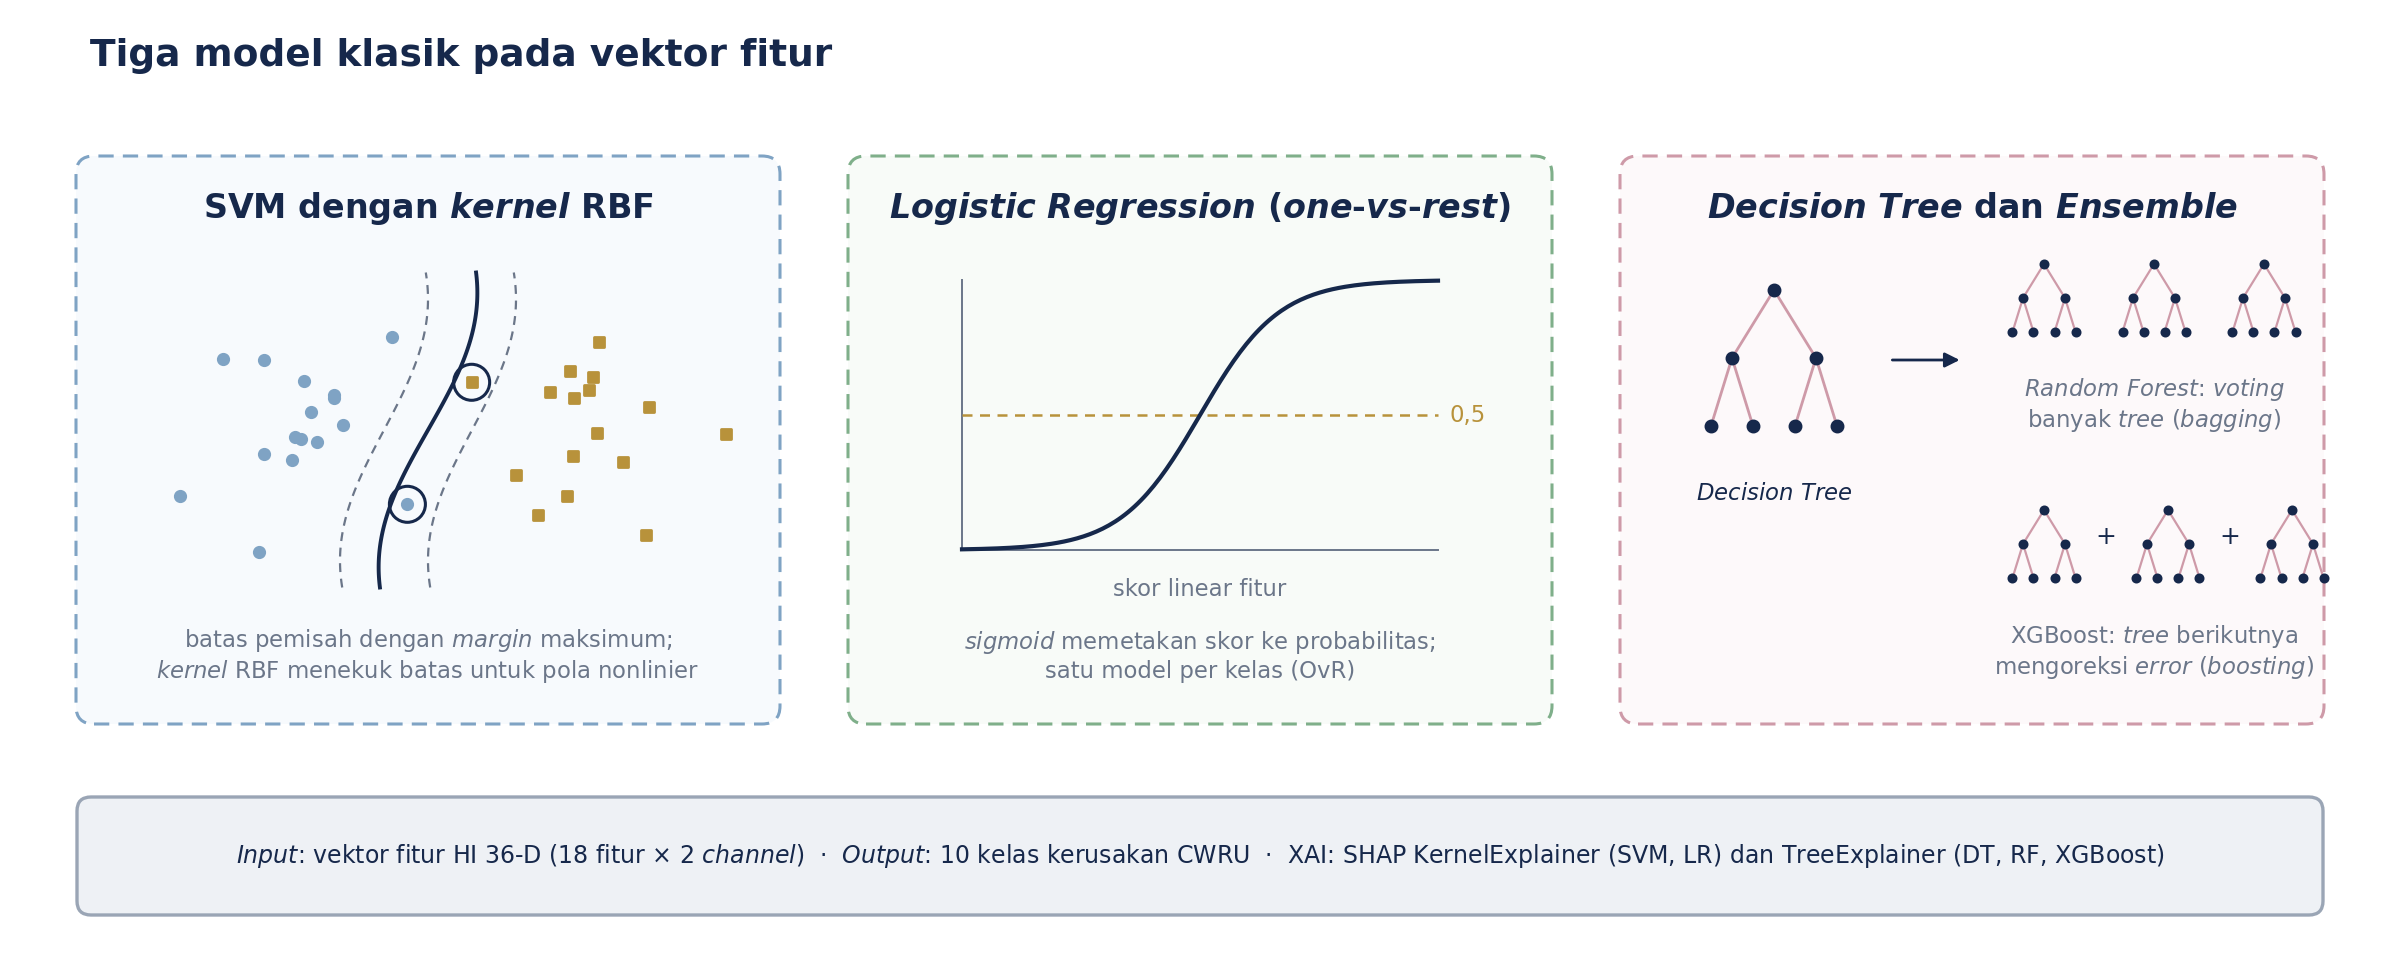
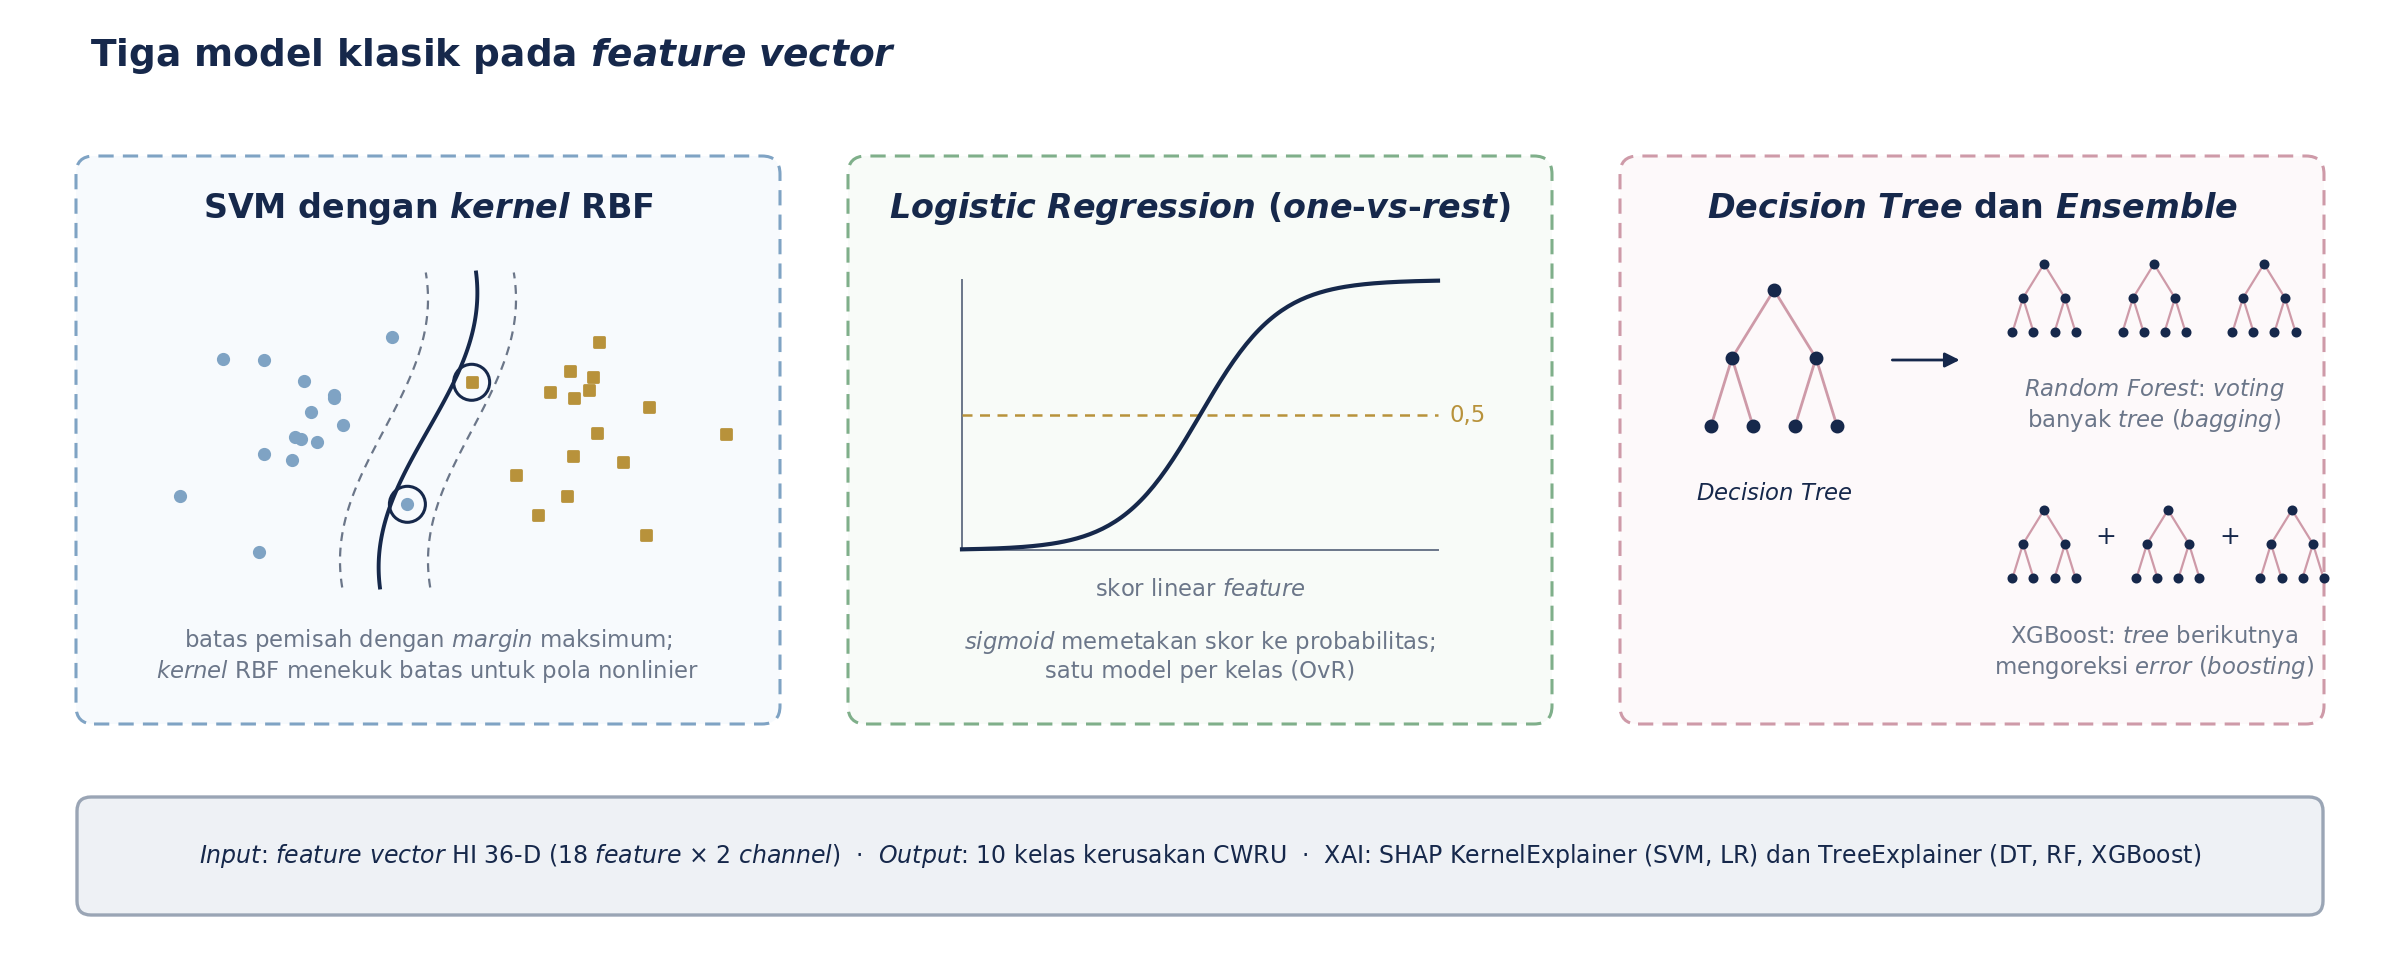
style(presentation): bearing parts, gap, and ML terms of art stay English
Three corrections from review of the built deck.

Bearing components are English like the bearing itself: outer ring, inner
ring, rolling element, ball, cage. The glossary card drops its "(bantalan)"
gloss and the severity ranking reads Ball > inner ring > outer ring.

A research gap is a gap, not a kesenjangan: slide 6 becomes "Empat Gap yang
Belum Terjawab" under a GAP LITERATUR eyebrow, its badges K1-K4 become
G1-G4, and the agenda, the RM bridge, and the Gambar II.11 caption follow.

Machine learning and deep learning terms of art stay English even where
KBBI lists a spelling-adapted form, window included: window, sliding
window, receptive field, feature, latent feature, feature vector, sample,
projection, convolution, normalization, reconstruction, Top-k selection,
attribution, attribution map, heatmap, layer, sequence modeling. Cognates
outside the jargon are untouched: akurasi, korelasi, frekuensi, amplitudo,
aktivasi, estimasi, agregasi, dimensi.

The calque guard now covers all of them, in the renderer and in the slide
copy. Lint clean, 131 tests green.

Claude-Session: https://claude.ai/code/session_01VPxUBMA37K3bjY1ZnjmBgu

diff --git a/presentation/tools/render_diagrams.py b/presentation/tools/render_diagrams.py
@@ -41,13 +41,13 @@ GOLD_FILL = "#E6D6A8"
 
 KIND = {
     "input":  {"fc": "#FBF0D3", "ec": "#C9B06B"},   # kuning  — input / embedding
-    "proj":   {"fc": "#E7E1F4", "ec": "#A79BCF"},   # ungu    — proyeksi / konvolusi / FC
-    "seq":    {"fc": "#D9EAF7", "ec": "#7FA3C4"},   # biru    — pemodelan sekuens
+    "proj":   {"fc": "#E7E1F4", "ec": "#A79BCF"},   # ungu    — projection / convolution / FC
+    "seq":    {"fc": "#D9EAF7", "ec": "#7FA3C4"},   # biru    — sequence modeling
     "mem":    {"fc": "#DFEEDF", "ec": "#7FAF8A"},   # hijau   — memory / state
-    "gate":   {"fc": "#F8E1E6", "ec": "#CE9AA8"},   # merah muda — gating / normalisasi
+    "gate":   {"fc": "#F8E1E6", "ec": "#CE9AA8"},   # merah muda — gating / normalization
     "out":    {"fc": "#CBE3D3", "ec": "#3E8E5B"},   # hijau tua — output / head
     "util":   {"fc": "#EEF1F5", "ec": "#9AA5B5"},   # abu     — pooling / utilitas
-    "active": {"fc": GOLD_FILL, "ec": GOLD},        # emas    — fitur aktif
+    "active": {"fc": GOLD_FILL, "ec": GOLD},        # emas    — active feature
 }
 
 FS_TITLE = 12.5   # panel / container titles
@@ -233,9 +233,9 @@ def mamba_xlstm_full():
 
     # ---- right column: the stack -----------------------------------------
     sx, bw = 10.35, 2.55
-    box(ax, sx, 1.28, bw, 0.56, "[[Input]] HI", kind="input", sub="jendela 32 rekaman")
+    box(ax, sx, 1.28, bw, 0.56, "[[Input]] HI", kind="input", sub="[[window]] 32 rekaman")
     arrow(ax, (sx, 1.58), (sx, 1.90))
-    box(ax, sx, 2.16, bw, 0.52, "Proyeksi linear\nke dimensi model", kind="proj", fs=8.5)
+    box(ax, sx, 2.16, bw, 0.52, "[[Linear projection]]\nke dimensi model", kind="proj", fs=8.5)
     arrow(ax, (sx, 2.44), (sx, 2.76))
     container(ax, sx - bw / 2 - 0.14, 2.78, bw + 0.28, 1.94, times="3×")
     box(ax, sx, 3.28, bw - 0.18, 0.62, "Blok Mamba", kind="seq", sub="[[Selective State-Space]]")
@@ -246,7 +246,7 @@ def mamba_xlstm_full():
     arrow(ax, (sx, 5.56), (sx, 5.88))
     ax.text(sx + 0.24, 5.72, r"$h \in \mathbb{R}^{128}$", ha="left", va="center",
             fontsize=8.5, color=MUTED)
-    box(ax, sx, 6.18, bw, 0.60, "MLP dua lapis", kind="out", sub="estimasi RUL", bold=True)
+    box(ax, sx, 6.18, bw, 0.60, "MLP dua [[layer]]", kind="out", sub="estimasi RUL", bold=True)
     ax.text(sx, 6.72, "Mamba-xLSTM-Net", ha="center", va="center",
             fontsize=FS_TITLE, color=INK, fontweight="bold")
 
@@ -262,7 +262,7 @@ def mamba_xlstm_full():
     gy = p1y + 0.62                                   # gate branch
     ax.plot([p1x + 0.28], [my], marker="o", ms=4, color=INK)
     arrow(ax, (p1x + 0.30, my), (p1x + 0.72, my))
-    box(ax, p1x + 1.22, my, 0.96, 0.5, "Proyeksi", kind="proj", fs=8.5)
+    box(ax, p1x + 1.22, my, 0.96, 0.5, "[[Projection]]", kind="proj", fs=8.5)
     arrow(ax, (p1x + 1.72, my), (p1x + 2.06, my))
     box(ax, p1x + 2.56, my, 0.96, 0.5, "Conv1D", kind="proj", fs=8.5)
     arrow(ax, (p1x + 3.06, my), (p1x + 3.38, my))
@@ -276,14 +276,14 @@ def mamba_xlstm_full():
     arrow(ax, (p1x + 5.32, my - 0.60), (p1x + 5.32, my - 0.38), lw=0.9)
     arrow(ax, (p1x + 6.10, my), (p1x + 6.50, my))
     gate_glyph(ax, p1x + 6.66, my, "×", kind="gate")
-    # gate branch: input -> proyeksi+SiLU -> multiplicative gate
+    # gate branch: input -> projection+SiLU -> multiplicative gate
     ax.plot([p1x + 0.28, p1x + 0.28], [my - 0.04, gy], color=INK, lw=1.0)
     arrow(ax, (p1x + 0.28, gy), (p1x + 1.30, gy))
-    box(ax, p1x + 2.14, gy, 1.66, 0.5, "Proyeksi + SiLU", kind="proj", fs=8.5)
+    box(ax, p1x + 2.14, gy, 1.66, 0.5, "[[Projection]] + SiLU", kind="proj", fs=8.5)
     ax.plot([p1x + 2.98, p1x + 6.66], [gy, gy], color=INK, lw=1.0)
     arrow(ax, (p1x + 6.66, gy), (p1x + 6.66, my - 0.16), shrink=1)
     arrow(ax, (p1x + 6.82, my), (p1x + 7.10, my))
-    box(ax, p1x + 7.56, my, 0.86, 0.5, "Proyeksi", kind="proj", fs=8.5)
+    box(ax, p1x + 7.56, my, 0.86, 0.5, "[[Projection]]", kind="proj", fs=8.5)
     ax.text(p1x + p1w / 2, p1y + 0.16, "[[gate]] multiplikatif memilih informasi yang diteruskan",
             ha="center", va="bottom", fontsize=FS_TINY, color=MUTED, style="italic")
 
@@ -298,7 +298,7 @@ def mamba_xlstm_full():
     cyc = p2y + 1.22
     ax.plot([p2x + 0.28], [cyc], marker="o", ms=4, color=INK)
     for lbl, dy in (("q", 0.85), ("k", 0.0), ("v", -0.85)):
-        box(ax, p2x + 1.30, cyc + dy, 0.86, 0.46, f"Proyeksi {lbl}", kind="proj", fs=8)
+        box(ax, p2x + 1.30, cyc + dy, 0.86, 0.46, f"[[Projection]] {lbl}", kind="proj", fs=8)
         ax.plot([p2x + 0.28, p2x + 0.60], [cyc, cyc], color=INK, lw=1.0)
         arrow(ax, (p2x + 0.60, cyc), (p2x + 0.85, cyc + dy), lw=0.9, shrink=1)
     Cx = p2x + 3.66
@@ -315,7 +315,7 @@ def mamba_xlstm_full():
     arrow(ax, (Cx + 0.30, cyc + 0.44), (Cx + 0.30, cyc + 0.29), lw=0.9, shrink=0)
     arrow(ax, (Cx + 0.48, cyc - 0.20), (Cx + 1.14, cyc - 0.20))
     box(ax, p2x + 5.34, cyc - 0.20, 1.14, 0.5, "[[Readout]] q", kind="util", fs=8.5,
-        sub="normalisasi")
+        sub="[[normalization]]")
     ax.plot([p2x + 1.74, p2x + 5.34], [cyc + 0.85, cyc + 0.85], color=INK, lw=1.0)  # q path
     arrow(ax, (p2x + 5.34, cyc + 0.85), (p2x + 5.34, cyc + 0.14), lw=0.9, shrink=1)
     arrow(ax, (p2x + 5.92, cyc - 0.20), (p2x + 6.30, cyc - 0.20))
@@ -332,8 +332,8 @@ def mamba_xlstm_full():
 
     # ---- legend (two rows) ------------------------------------------------
     legend_row(ax, 0.45, 0.44, [
-        ("input", "[[input]]"), ("proj", "proyeksi / konvolusi"),
-        ("seq", "pemodelan sekuens"), ("mem", "[[memory]] / [[state]]"),
+        ("input", "[[input]]"), ("proj", "[[projection]] / [[convolution]]"),
+        ("seq", "[[sequence modeling]]"), ("mem", "[[memory]] / [[state]]"),
         ("gate", "[[gate]]"), ("out", "[[output]]"),
     ])
     legend_row(ax, 0.45, 0.15, [
@@ -350,12 +350,12 @@ def nbeats_xlstm_full():
     fig, ax = new_fig(12.0, 3.9)
     my = 1.78
 
-    box(ax, 1.15, my, 1.75, 0.78, "[[Input]] HI", kind="input", sub="jendela 32 rekaman")
+    box(ax, 1.15, my, 1.75, 0.78, "[[Input]] HI", kind="input", sub="[[window]] 32 rekaman")
     arrow(ax, (2.03, my), (2.42, my))
     container(ax, 2.46, my - 0.62, 1.62, 1.24, times="2×")
     box(ax, 3.27, my, 1.34, 0.66, "Blok xLSTM", kind="seq", sub="[[front-end]]")
     arrow(ax, (4.24, my), (4.62, my))
-    ax.text(3.27, my - 0.92, "konteks sekuens memodulasi\n[[output]] basis",
+    ax.text(3.27, my - 0.92, "konteks [[sequence]] memodulasi\n[[output]] basis",
             ha="center", va="top", fontsize=FS_TINY, color=MUTED, style="italic")
 
     # three basis blocks with mini curve glyphs
@@ -406,7 +406,7 @@ def nbeats_xlstm_full():
             ha="left", va="center", fontsize=FS_NOTE, color=MUTED)
 
     legend_row(ax, 0.45, 0.32, [
-        ("input", "[[input]]"), ("seq", "pemodelan sekuens / basis blok"),
+        ("input", "[[input]]"), ("seq", "[[sequence modeling]] / basis blok"),
         ("mem", "agregasi aditif"), ("out", "[[output]]"),
     ])
     save(fig, "nbeats_xlstm_full")
@@ -419,7 +419,7 @@ def sparsegate_tcn_full():
     fig, ax = new_fig(12.0, 5.6)
     my = 1.30
 
-    box(ax, 1.05, my, 1.65, 0.78, "[[Input]] HI", kind="input", sub="jendela 32 rekaman")
+    box(ax, 1.05, my, 1.65, 0.78, "[[Input]] HI", kind="input", sub="[[window]] 32 rekaman")
     ax.plot([1.88, 2.16], [my, my], color=INK, lw=1.1)
     ax.plot([2.16, 2.16], [my - 0.55, my + 0.55], color=INK, lw=1.1)
     arrow(ax, (2.16, my + 0.55), (2.52, my + 0.55), shrink=0)
@@ -452,7 +452,7 @@ def sparsegate_tcn_full():
                                 boxstyle="round,pad=0.02,rounding_size=0.09",
                                 fc=KIND["proj"]["fc"], ec="none", alpha=0.22, zorder=0))
     ax.text(px + pw / 2, py + ph - 0.20, "[[Dilated causal convolution]]: "
-            "[[receptive field]] menutup seluruh jendela",
+            "[[receptive field]] menutup seluruh [[window]]",
             ha="center", va="center", fontsize=FS_TITLE - 0.5, color=INK, fontweight="bold")
     n = 17
     xs = np.linspace(px + 0.85, px + pw - 0.30, n)
@@ -531,7 +531,7 @@ def wdcnn_full():
     arrow(ax, (7.30, my), (7.66, my))
     box(ax, 8.16, my, 0.94, 0.52, "Flatten", kind="util", fs=8.5)
     arrow(ax, (8.65, my), (8.95, my))
-    box(ax, 9.70, my, 1.42, 0.72, "Dua lapis FC\n+ [[dropout]]", kind="proj", fs=8.5)
+    box(ax, 9.70, my, 1.42, 0.72, "Dua [[layer]] FC\n+ [[dropout]]", kind="proj", fs=8.5)
     arrow(ax, (10.43, my), (10.73, my))
     box(ax, 11.28, my, 1.02, 0.72, "Softmax\n10 kelas", kind="out", fs=8.5, bold=True)
 
@@ -541,8 +541,8 @@ def wdcnn_full():
             ha="left", va="center", fontsize=FS_NOTE, color=MUTED, style="italic")
 
     legend_row(ax, 0.45, 0.40, [
-        ("input", "[[input]]"), ("proj", "konvolusi / FC"),
-        ("gate", "normalisasi"), ("util", "[[pooling]] / utilitas"), ("out", "[[output]]"),
+        ("input", "[[input]]"), ("proj", "[[convolution]] / FC"),
+        ("gate", "[[normalization]]"), ("util", "[[pooling]] / utilitas"), ("out", "[[output]]"),
     ])
     save(fig, "wdcnn_full")
 
@@ -557,7 +557,7 @@ def topk_sae():
     box(ax, 1.20, my, 1.95, 0.92, "$h \\in \\mathbb{R}^{128}$", kind="input", fs=10,
         sub="[[hidden state]] [[backbone]]\n([[weights]] dibekukan)")
     arrow(ax, (2.20, my), (2.52, my))
-    box(ax, 3.10, my, 1.10, 0.56, "Bias\npra-enkoder", kind="util", fs=8)
+    box(ax, 3.10, my, 1.10, 0.56, "[[Pre-encoder]]\n[[bias]]", kind="util", fs=8)
     arrow(ax, (3.67, my), (3.95, my))
     box(ax, 4.60, my, 1.24, 0.62, "[[Encoder]]\nlinear", kind="proj", fs=8.5, sub="$W_{enc}$")
     arrow(ax, (5.24, my), (5.52, my))
@@ -578,9 +578,9 @@ def topk_sae():
             ax.add_patch(Rectangle((gx + i * cell, gy + j * cell), cell * 0.88,
                                    cell * 0.88, fc=c["fc"], ec=c["ec"], lw=0.6))
     ax.text(gx + nx * cell / 2, gy + ny * cell + 0.16,
-            "$z$: 1.024 fitur laten (ekspansi 8×)", ha="center", va="bottom",
+            "$z$: 1.024 [[latent feature]] (ekspansi 8×)", ha="center", va="bottom",
             fontsize=FS_BLOCK, color=INK, fontweight="bold")
-    ax.text(gx + nx * cell / 2, gy - 0.14, "hanya k = 51 fitur (sekitar 5 %)\naktif per sampel",
+    ax.text(gx + nx * cell / 2, gy - 0.14, "hanya k = 51 [[feature]] (sekitar 5 %)\naktif per [[sample]]",
             ha="center", va="top", fontsize=FS_TINY, color=MUTED)
     arrow(ax, (gx + nx * cell + 0.06, my), (gx + nx * cell + 0.30, my))
     box(ax, 10.30, my, 1.24, 0.62, "[[Decoder]]\nlinear", kind="proj", fs=8.5, sub="$W_{dec}$")
@@ -590,13 +590,13 @@ def topk_sae():
     ax.text(0.45, 3.42, "Top-k [[Sparse Autoencoder]] (SAE)", ha="left", va="center",
             fontsize=FS_TITLE + 1, color=INK, fontweight="bold")
     ax.text(0.45, 3.10, "dilatih pasca-hoc pada 20.000 [[hidden state]]; "
-                        "satu fitur laten idealnya mengkodekan satu konsep fisika "
+                        "satu [[latent feature]] idealnya mengkodekan satu konsep fisika "
                         "(monosemantisitas)",
             ha="left", va="center", fontsize=FS_NOTE, color=MUTED)
 
     legend_row(ax, 0.45, 0.32, [
-        ("input", "[[input]]"), ("proj", "proyeksi linear"), ("gate", "seleksi Top-k"),
-        ("active", "fitur aktif"), ("util", "fitur nonaktif (nol)"), ("out", "rekonstruksi"),
+        ("input", "[[input]]"), ("proj", "[[linear projection]]"), ("gate", "[[Top-k selection]]"),
+        ("active", "[[active feature]]"), ("util", "[[inactive feature]] (nol)"), ("out", "[[reconstruction]]"),
     ])
     save(fig, "topk_sae")
 
@@ -646,15 +646,15 @@ def sae_bpfx_pipeline():
 
     _panel(ax, 8.44, py, pw, ph, "Tahap 3: Korelasi dan [[hit-rate]]", tint="gate")
     x3 = 8.44 + pw / 2
-    box(ax, x3, py + 2.28, 3.05, 0.60, "Korelasi Pearson $r$\naktivasi fitur SAE × amplitudo BPFx",
+    box(ax, x3, py + 2.28, 3.05, 0.60, "Korelasi Pearson $r$\naktivasi [[feature]] SAE × amplitudo BPFx",
         kind="proj", fs=8)
     arrow(ax, (x3, py + 1.95), (x3, py + 1.80), shrink=0, lw=0.9)
-    box(ax, x3, py + 1.44, 3.05, 0.56, "[[Hit-rate]]: proporsi fitur\ndengan |r| ≥ 0,30",
+    box(ax, x3, py + 1.44, 3.05, 0.56, "[[Hit-rate]]: proporsi [[feature]]\ndengan |r| ≥ 0,30",
         kind="out", fs=8)
     ax.text(x3, py + 0.62, "korelasi maksimum 0,447 (BPFI, PHM2012)\ndan 0,468 (BPFO, XJTU-SY)",
             ha="center", va="center", fontsize=FS_TINY, color=MUTED)
 
-    ax.text(0.45, 3.84, "Prosedur pemetaan fitur SAE ke frekuensi karakteristik [[bearing]] (BPFx)",
+    ax.text(0.45, 3.84, "Prosedur pemetaan [[feature]] SAE ke frekuensi karakteristik [[bearing]] (BPFx)",
             ha="left", va="center", fontsize=FS_TITLE + 1, color=INK, fontweight="bold")
     save(fig, "sae_bpfx_pipeline")
 
@@ -692,7 +692,7 @@ def shap_fsm_pipeline():
         ax.plot([bx + i / 90 * bw2] * 2, [py + 1.55, py + 1.55 + v * 0.28],
                 color=color, lw=0.7, zorder=4)
     ax.plot([bx, bx + bw2], [py + 1.55, py + 1.55], color=MUTED, lw=0.6)
-    ax.text(cx, py + 0.55, "atribusi per titik waktu\n300 [[background]] · 500 sampel uji",
+    ax.text(cx, py + 0.55, "[[attribution]] per titik waktu\n300 [[background]] · 500 [[sample]] uji",
             ha="center", va="center", fontsize=FS_NOTE, color=MUTED)
 
     _panel(ax, xs[3], py, pw, ph, "[[Fault Signature Maps]]", tint="mem")
@@ -704,7 +704,7 @@ def shap_fsm_pipeline():
             v = rng.random() * np.exp(-((ci / 24 - (0.2 + 0.06 * r) % 1) ** 2) / 0.02)
             ax.add_patch(Rectangle((hx + ci * 0.081, hy + r * 0.115), 0.075, 0.105,
                                    fc=cmap(0.15 + 0.8 * min(v, 1)), ec="none"))
-    ax.text(xs[3] + pw / 2, py + 0.55, "peta atribusi 10 kelas × 2.048 titik\n"
+    ax.text(xs[3] + pw / 2, py + 0.55, "[[attribution map]] 10 kelas × 2.048 titik\n"
             "3 varian: [[Signed]], [[Absolute]], [[Variance]]",
             ha="center", va="center", fontsize=FS_NOTE, color=MUTED)
 
@@ -714,7 +714,7 @@ def shap_fsm_pipeline():
 
     ax.text(0.45, 4.32, "Dari sinyal mentah ke [[Fault Signature Maps]] (FSM)",
             ha="left", va="center", fontsize=FS_TITLE + 1, color=INK, fontweight="bold")
-    ax.text(0.45, 3.98, "agregasi atribusi per kelas menghasilkan [[array]] 500 × 2.048 × 10 "
+    ax.text(0.45, 3.98, "agregasi [[attribution]] per kelas menghasilkan [[array]] 500 × 2.048 × 10 "
                         "(lebih dari 10 juta nilai SHAP)",
             ha="left", va="center", fontsize=FS_NOTE, color=MUTED)
 
@@ -763,7 +763,7 @@ def classic_ml_trio():
     ax.plot([gx, gx + gw], [gy + gh / 2, gy + gh / 2], color=GOLD, lw=0.9,
             ls=(0, (4, 3)), zorder=3)
     ax.text(gx + gw + 0.06, gy + gh / 2, "0,5", fontsize=FS_TINY, color=GOLD, va="center")
-    ax.text(gx + gw / 2, gy - 0.14, "skor linear fitur", ha="center", va="top",
+    ax.text(gx + gw / 2, gy - 0.14, "skor linear [[feature]]", ha="center", va="top",
             fontsize=FS_TINY, color=MUTED)
     ax.text(xs[1] + pw / 2, py + 0.32, "[[sigmoid]] memetakan skor ke probabilitas;\n"
             "satu model per kelas (OvR)", ha="center", va="center",
@@ -802,10 +802,10 @@ def classic_ml_trio():
     ax.text(xs[2] + 2.65, py + 0.34, "XGBoost: [[tree]] berikutnya\nmengoreksi [[error]] ([[boosting]])",
             ha="center", va="center", fontsize=FS_TINY, color=MUTED)
 
-    ax.text(0.45, 4.62, "Tiga model klasik pada vektor fitur", ha="left", va="center",
+    ax.text(0.45, 4.62, "Tiga model klasik pada [[feature vector]]", ha="left", va="center",
             fontsize=FS_TITLE + 1, color=INK, fontweight="bold")
     box(ax, 6.0, 0.62, 11.2, 0.56,
-        "[[Input]]: vektor fitur HI 36-D (18 fitur × 2 [[channel]])  ·  [[Output]]: 10 kelas "
+        "[[Input]]: [[feature vector]] HI 36-D (18 [[feature]] × 2 [[channel]])  ·  [[Output]]: 10 kelas "
         "kerusakan CWRU  ·  XAI: SHAP KernelExplainer (SVM, LR) dan TreeExplainer (DT, RF, XGBoost)",
         kind="util", fs=8.5)
     save(fig, "classic_ml_trio")
@@ -819,10 +819,10 @@ def streaming_engine():
     my = 2.72
 
     steps = [
-        (1.30, 1.95, "Akuisisi sinyal", "jendela geser\n64 akuisisi", "input"),
-        (3.65, 1.95, "Ekstraksi fitur HI", "[[pipeline]] identik\ndengan pelatihan", "proj"),
+        (1.30, 1.95, "Akuisisi sinyal", "[[sliding window]]\n64 akuisisi", "input"),
+        (3.65, 1.95, "Ekstraksi [[feature]] HI", "[[pipeline]] identik\ndengan pelatihan", "proj"),
         (6.00, 1.95, "Mamba-xLSTM-Net", "di [[server]],\nprotokol WebSocket", "seq"),
-        (8.35, 1.95, "Prediksi per akuisisi", "fraksi RUL · status\n[[fusion gate]] · atribusi", "mem"),
+        (8.35, 1.95, "Prediksi per akuisisi", "fraksi RUL · status\n[[fusion gate]] · [[attribution]]", "mem"),
         (10.70, 1.95, "Dasbor [[streaming]]", "kurva RUL, [[waveform]],\n[[event log]]", "out"),
     ]
     for cx, w, label, sub, kind in steps:
@@ -830,7 +830,7 @@ def streaming_engine():
     for (cx1, w1, *_), (cx2, w2, *_) in zip(steps, steps[1:]):
         arrow(ax, (cx1 + w1 / 2 + 0.02, my), (cx2 - w2 / 2 - 0.02, my), lw=1.8)
 
-    ax.text(6.0, my + 0.95, "atribusi fitur: [[gradient]]×[[input]] per akuisisi; "
+    ax.text(6.0, my + 0.95, "[[feature attribution]]: [[gradient]]×[[input]] per akuisisi; "
             "Integrated Gradients dipicu otomatis pada transisi status",
             ha="center", va="center", fontsize=FS_NOTE, color=MUTED, style="italic")
 

diff --git a/presentation/tests/test_diagrams.py b/presentation/tests/test_diagrams.py
@@ -52,7 +52,9 @@ def test_labels_keep_component_nouns_english():
 
     pattern = (
         r"\b(masukan|keluaran|gerbang|atensi|jangkauan reseptif|terdilatasi|"
-        r"pohon keputusan|hutan acak|regresi logistik|bobot|derau|galat)\b"
+        r"pohon keputusan|hutan acak|regresi logistik|bobot|derau|galat|"
+        r"jendela|fitur|sampel|proyeksi|konvolusi|normalisasi|rekonstruksi|"
+        r"atribusi|kesenjangan|cincin (luar|dalam)|bantalan|sangkar)\b"
     )
     for path in (ROOT / "tools" / "render_diagrams.py",
                  ROOT / "content" / "sidang-terbuka.yaml"):
